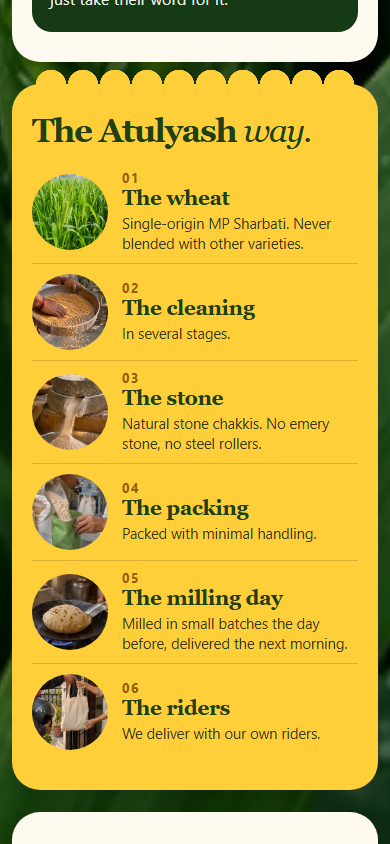
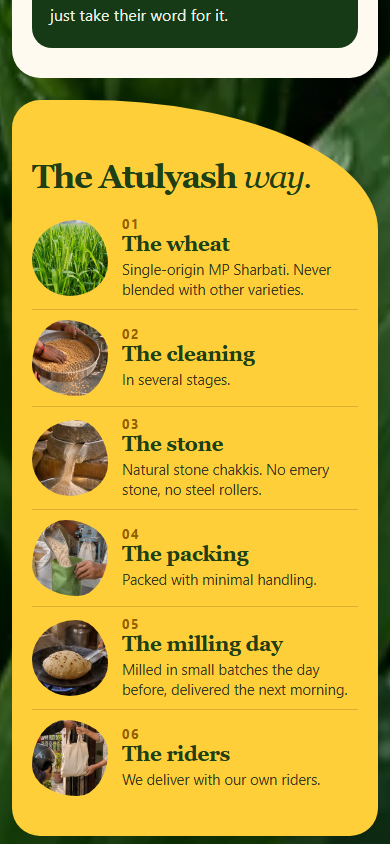
6 Alt: swap scallops and arches for abstract sweeps and organic blob shapes

diff --git a/blends/6-alt/index.html b/blends/6-alt/index.html
@@ -122,7 +122,7 @@ form label{display:block;font-weight:700;color:var(--ink)}
 [data-pin] output{color:var(--ink)}
 .links{display:grid;grid-template-columns:1fr 1fr;gap:8px;margin-top:14px}
 .links a{display:flex;align-items:center;justify-content:center;min-height:50px;border-radius:99px;border:2px solid var(--button);text-decoration:none;font-weight:700;color:var(--ink)}
-.foot{display:flex;justify-content:space-between;align-items:end;gap:16px;padding:34px 20px 44px;color:#fff}
+.foot{display:flex;justify-content:space-between;align-items:end;gap:16px;padding:34px calc(var(--g) + 20px) 44px;color:#fff}
 .foot img{width:120px;filter:brightness(0) invert(1);opacity:.95}
 .foot span{font-size:13px;font-weight:700;letter-spacing:.1em;text-transform:uppercase;text-shadow:0 2px 10px rgba(0,0,0,.4)}
 
@@ -154,13 +154,15 @@ form label{display:block;font-weight:700;color:var(--ink)}
 }
 /* ---------- shape play: each panel gets its own silhouette ---------- */
 .hero{border-radius:28px 28px 50% 50%/28px 28px 38px 38px;padding-bottom:18px}
-.facts{border-radius:50% 50% 28px 28px/90px 90px 28px 28px;padding-top:58px;text-align:center}
-.facts li{text-align:left}
+.facts{border-radius:28px 28px 78% 28px/28px 28px 110px 28px;padding-bottom:64px}
 .journal li:first-child img{border-radius:0 0 50% 50%/0 0 26px 26px}
-.gallery img.main{border-radius:999px 999px 18px 18px;height:260px}
+.gallery img.main{border-radius:62% 38% 46% 54%/58% 44% 56% 42%;height:270px}
+.gallery img:not(.main){border-radius:16px 16px 16px 44px}
+.gallery img:nth-child(3){border-radius:16px 16px 44px 16px}
 .way{background:#FFCF39!important;margin-top:16px}
-.way::before{content:"";position:absolute;left:24px;right:24px;top:-15px;height:16px;background:radial-gradient(circle at 50% 100%,#FFCF39 15px,transparent 15.5px) center 0/30px 16px space no-repeat}
-.way img{border-radius:50%}
+.way{border-radius:28px 80% 28px 28px/28px 130px 28px 28px;padding-top:60px}
+.way img{border-radius:58% 42% 50% 50%/52% 58% 42% 48%}
+.way li:nth-child(even) img{border-radius:44% 56% 40% 60%/60% 42% 58% 40%}
 .pack-card img{width:62px;height:62px;padding:6px;border-radius:50%;background:radial-gradient(circle,#FFE48A,#FFCF39)}
 .close{margin-top:30px}
 .sticker{position:absolute;top:-26px;right:18px;display:grid;place-items:center;width:92px;height:92px;border-radius:50%;background:var(--button);color:#fff;text-align:center;font:700 13px/1.15 system-ui,sans-serif;transform:rotate(9deg);box-shadow:0 10px 22px rgba(0,0,0,.25)}
@@ -168,8 +170,8 @@ form label{display:block;font-weight:700;color:var(--ink)}
 .close h2{padding-right:78px}
 @media (min-width:900px){
   .hero{border-radius:28px 28px 50% 50%/28px 28px 70px 70px;padding-bottom:30px}
-  .facts{border-radius:50% 50% 28px 28px/150px 150px 28px 28px;padding-top:90px}
-  .facts li{text-align:left}
+  .facts{border-radius:28px 28px 60% 28px/28px 28px 150px 28px;padding-bottom:96px}
+  .way{border-radius:28px 60% 28px 28px/28px 170px 28px 28px;padding-top:80px}
   .gallery img.main{height:340px}
   .sticker{width:120px;height:120px;right:48px;top:-34px;font-size:15px}
   .sticker b{font-size:28px}
